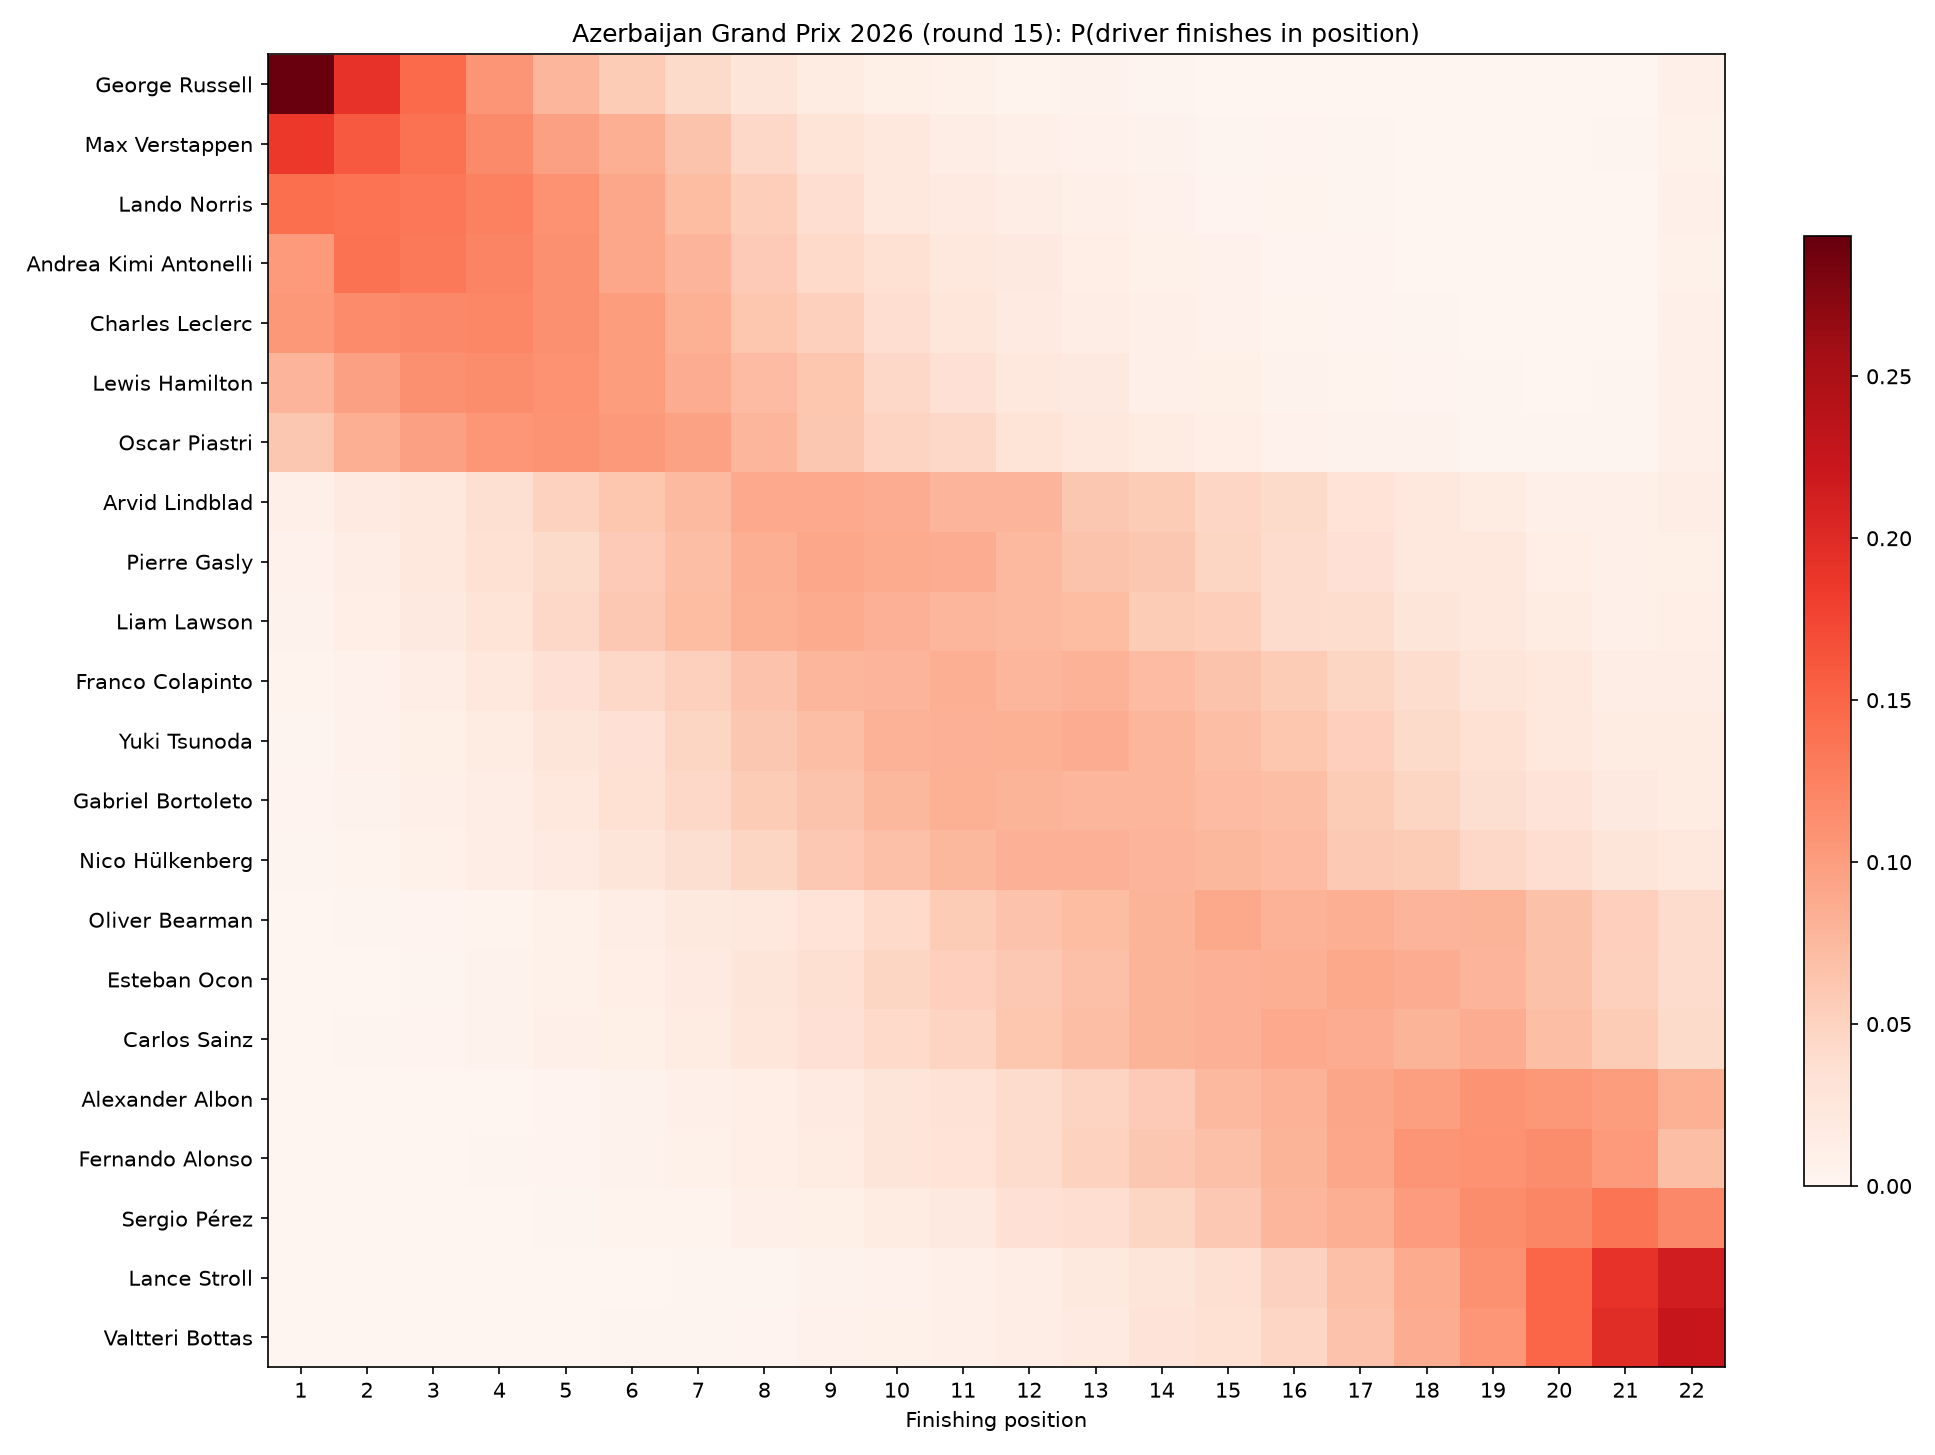
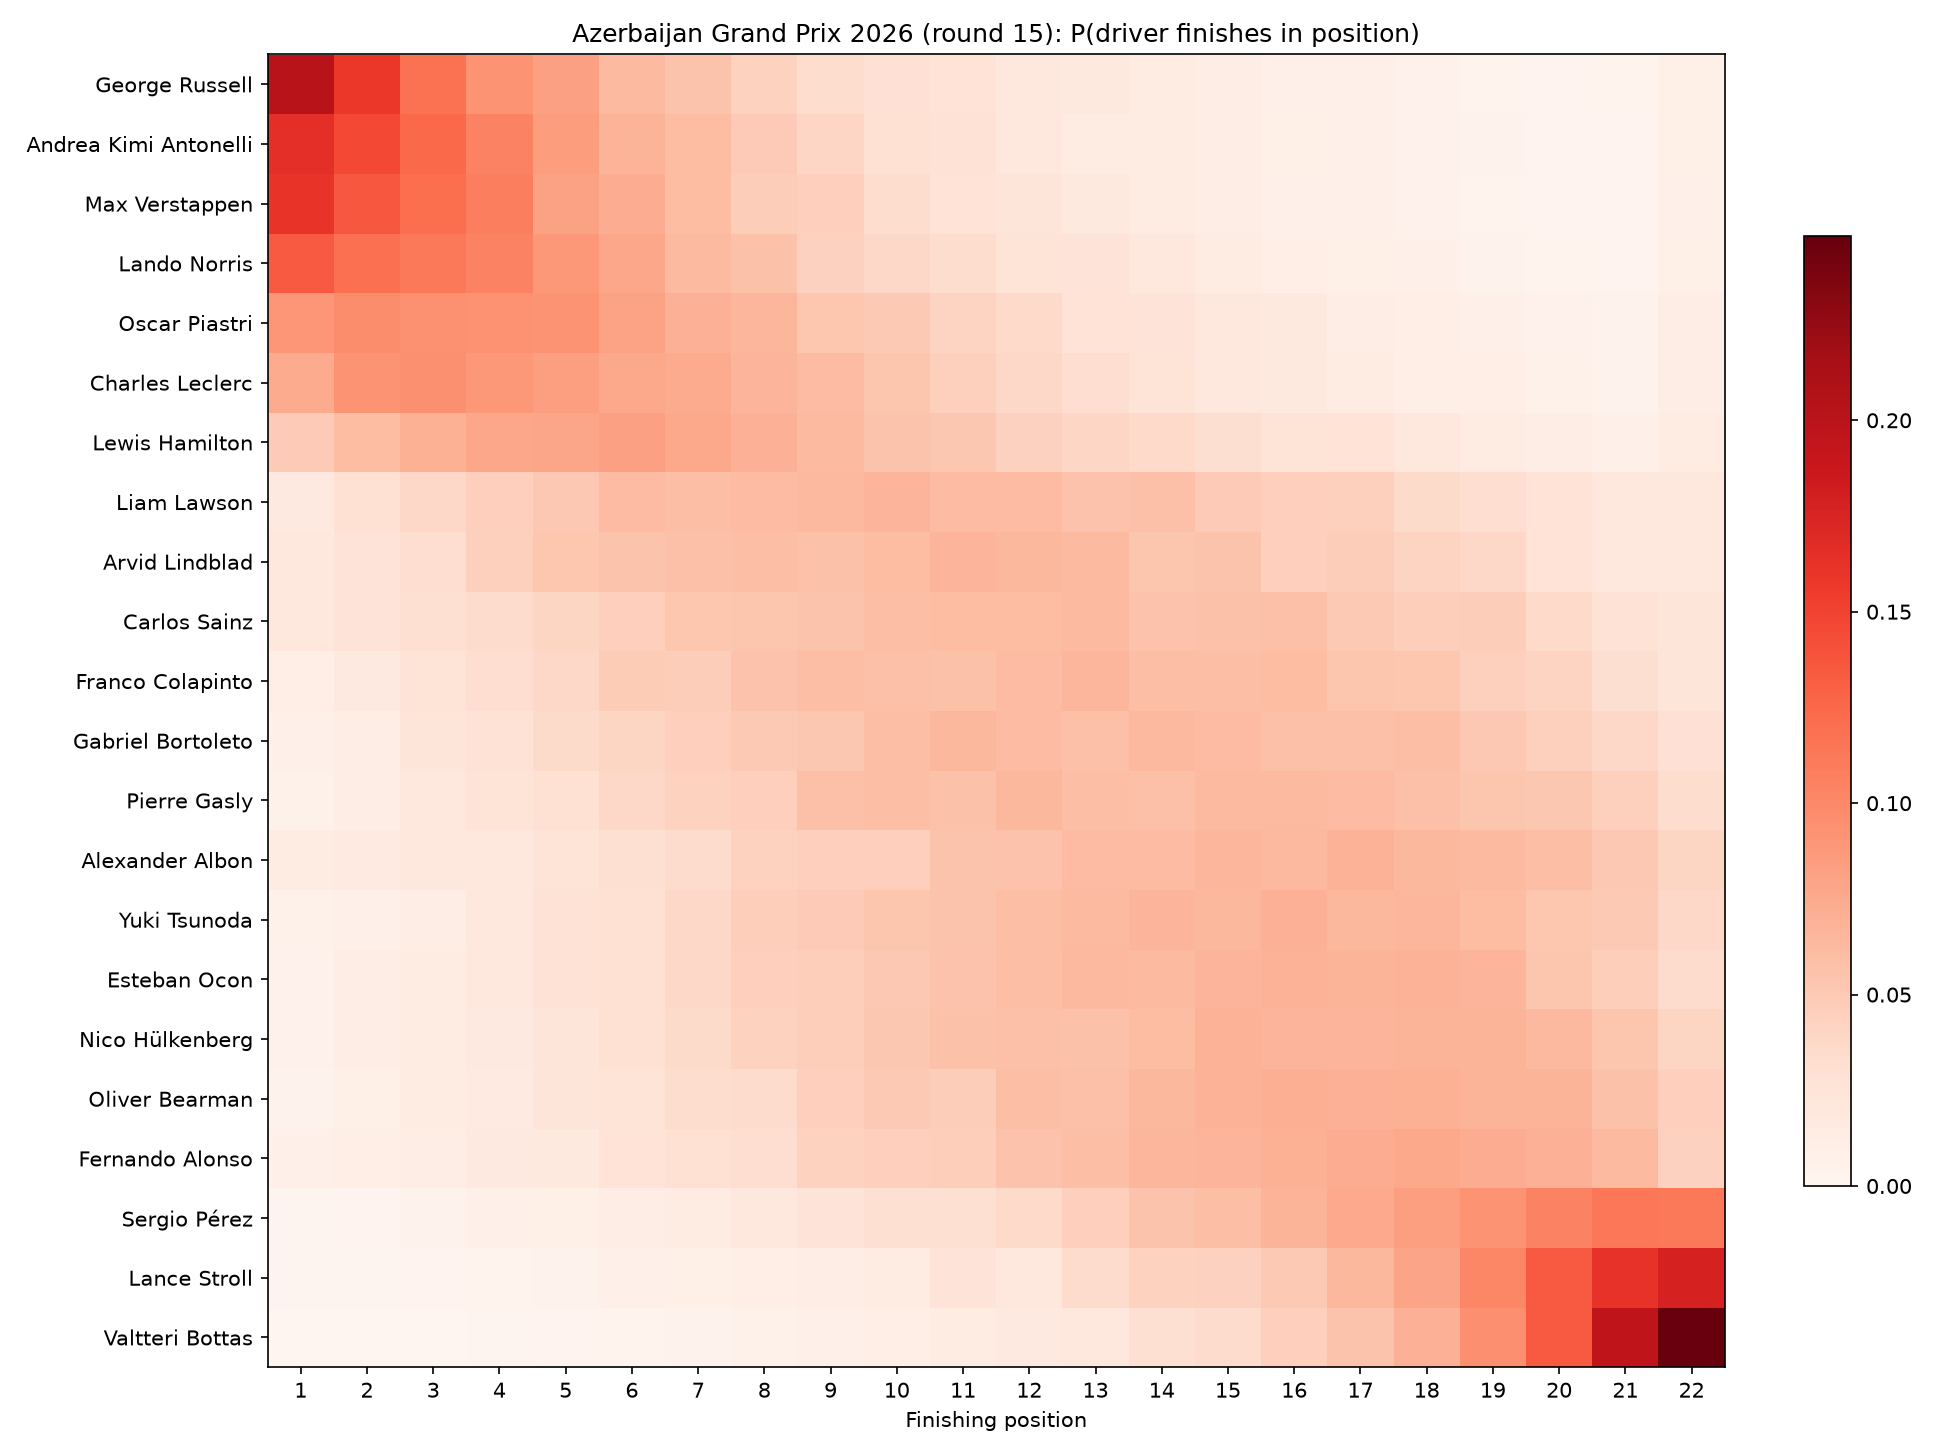
docs: weather and track ablation results
Claude-Session: https://claude.ai/code/session_01YJeHtrUFY8CEqTesftaBuB

diff --git a/README.md b/README.md
@@ -16,32 +16,37 @@ mirror of the Ergast schema.
 
 ```text
 No qualifying data yet; running without grid
+Rain chance: 10% (forecast)
                     Azerbaijan Grand Prix 2026 (round 15)
  #   Driver                    Win   Podium   Points   Exp. pos   P10-P90
- 1   George Russell          29.3%    63.1%    96.9%        3.5       1-7
- 2   Max Verstappen          18.6%    48.6%    94.9%        4.4       1-9
- 3   Lando Norris            14.3%    41.7%    93.0%        4.9       1-9
- 4   Charles Leclerc         10.4%    34.0%    90.8%        5.5      1-10
- 5   Andrea Kimi Antonelli   10.3%    37.5%    91.4%        5.3      1-10
- 6   Lewis Hamilton           7.9%    28.7%    87.8%        6.1      2-11
- 7   Oscar Piastri            6.1%    24.2%    84.3%        6.6      2-12
- 8   Arvid Lindblad           0.8%     5.3%    53.8%       10.4      5-16
- 9   Pierre Gasly             0.6%     4.4%    51.2%       10.7      5-17
-10   Liam Lawson              0.5%     3.7%    49.6%       10.9      5-17
-11   Franco Colapinto         0.4%     2.6%    40.0%       11.8      6-18
-12   Gabriel Bortoleto        0.2%     1.6%    33.1%       12.6      7-19
-13   Yuki Tsunoda             0.2%     1.9%    35.4%       12.3      7-18
-14   Nico Hülkenberg          0.1%     1.2%    28.4%       13.2      7-19
-15   Oliver Bearman           0.1%     0.5%    15.1%       15.0      9-20
-16   Alexander Albon          0.0%     0.1%     7.6%       16.8     11-21
-17   Carlos Sainz             0.0%     0.4%    14.9%       15.2      9-20
-18   Esteban Ocon             0.0%     0.3%    15.7%       15.1      9-20
-19   Sergio Pérez             0.0%     0.1%     4.8%       17.6     12-22
-20   Fernando Alonso          0.0%     0.1%     7.4%       16.8     11-21
-21   Valtteri Bottas          0.0%     0.0%     1.9%       19.1     15-22
-22   Lance Stroll             0.0%     0.0%     1.8%       19.0     15-22
+ 1   George Russell          20.1%    47.7%    87.2%        5.2      1-12
+ 2   Andrea Kimi Antonelli   16.6%    43.6%    87.2%        5.4      1-12
+ 3   Max Verstappen          16.2%    41.8%    86.7%        5.5      1-12
+ 4   Lando Norris            13.4%    36.6%    83.6%        6.0      1-13
+ 5   Oscar Piastri            8.9%    28.0%    78.3%        7.0      2-14
+ 6   Charles Leclerc          7.4%    26.1%    76.5%        7.3      2-14
+ 7   Lewis Hamilton           4.9%    18.1%    68.0%        8.5      2-16
+ 8   Carlos Sainz             2.1%     7.6%    41.6%       11.8      4-19
+ 9   Arvid Lindblad           1.8%     7.6%    46.1%       11.2      4-19
+10   Liam Lawson              1.7%     8.4%    49.1%       10.9      4-18
+11   Alexander Albon          1.3%     4.9%    29.3%       13.5      6-20
+12   Franco Colapinto         1.0%     5.2%    39.2%       12.2      5-19
+13   Gabriel Bortoleto        0.8%     4.4%    35.5%       12.7      5-20
+14   Fernando Alonso          0.7%     2.9%    24.1%       14.3      7-21
+15   Yuki Tsunoda             0.7%     2.7%    29.3%       13.6      6-20
+16   Pierre Gasly             0.6%     3.7%    33.4%       13.1      6-20
+17   Esteban Ocon             0.6%     3.2%    28.8%       13.6      6-20
+18   Nico Hülkenberg          0.5%     3.0%    27.6%       13.8      6-20
+19   Oliver Bearman           0.4%     2.6%    25.5%       14.1      7-21
+20   Sergio Pérez             0.1%     0.9%    12.4%       16.5     10-22
+21   Lance Stroll             0.1%     0.5%     6.8%       17.9     12-22
+22   Valtteri Bottas          0.0%     0.2%     3.9%       18.9     14-22
                   * fewer than 5 rated races: low confidence
 ```
+
+The rain line is the Open-Meteo forecast for the three hours from the race start; it becomes the
+share of simulated runs that are wet. Before the forecast horizon, or when Open-Meteo cannot be
+reached, the circuit's historical wet rate is used instead and the line says so.
 
 ![Win probability](docs/results/example-win.png)
 
@@ -55,14 +60,14 @@ rest of the calendar 2,000 times and counts who ends up on top:
 ```text
            2026 drivers' championship (9 races left, 2,000 runs)
  #   Driver                  Points now   Exp. points    Title    Top 3
- 1   Andrea Kimi Antonelli          292           398    89.8%   100.0%
- 2   George Russell                 211           361    10.1%    99.1%
- 3   Lando Norris                   186           300     0.1%    58.5%
- 4   Lewis Hamilton                 191           283     0.0%    24.1%
- 5   Max Verstappen                 145           268     0.0%    10.2%
- 6   Charles Leclerc                167           268     0.0%     8.2%
- 7   Oscar Piastri                  120           202     0.0%     0.0%
- 8   Liam Lawson                     59            86     0.0%     0.0%
+ 1   Andrea Kimi Antonelli          292           391    97.4%   100.0%
+ 2   George Russell                 211           325     2.5%    94.8%
+ 3   Lando Norris                   186           285     0.1%    54.2%
+ 4   Lewis Hamilton                 191           271     0.0%    25.9%
+ 5   Charles Leclerc                167           256     0.0%    12.2%
+ 6   Max Verstappen                 145           256     0.0%    12.8%
+ 7   Oscar Piastri                  120           194     0.0%     0.0%
+ 8   Liam Lawson                     59            91     0.0%     0.0%
 ```
 
 ![Championship odds](docs/results/example-title.png)
@@ -99,18 +104,30 @@ fastest-lap bonus point (2019 to 2024) is not simulated. Drivers who have left t
 their points, and constructor totals route each driver's simulated points to their current
 team. See [docs/season-sim.md](docs/season-sim.md).
 
+**Weather and track type.** `data update` asks [Open-Meteo](https://open-meteo.com/) how much
+rain fell at each circuit in the three hours from the race start; 0.5 mm or more marks the race
+wet. Every driver and constructor also carries a wet rating and one rating per hand-labelled
+track type (street, high speed, high downforce, mixed), updated only on races of that kind and
+shrunk toward the overall rating until there is enough evidence (eight races count for half).
+For a future race the forecast rain probability becomes a coin flip inside every simulated run:
+wet runs use the wet ratings, wider noise and higher DNF odds. When the forecast is out of
+reach the circuit's historical wet rate stands in. See
+[docs/weather-and-track.md](docs/weather-and-track.md).
+
 ## Backtest results
 
-Parameters were tuned by coordinate descent on 2015 to 2022 (`f1pred tune`), which chose
-`k_driver = 16` and `k_constructor = 24` and left the rest at their defaults. The seasons below
-were never seen by the tuner. Each race is predicted from the ratings, DNF rates and grid that
-were known before it started. See [docs/backtesting.md](docs/backtesting.md).
+Parameters were tuned by coordinate descent on 2015 to 2022 (`f1pred tune`) with the weather
+and track knobs in the grid. It chose `k_driver = 32`, `sigma_team = 40`, `grid_bonus = 12`,
+`regress_constructor = 0.3`, `shrink_wet = shrink_track = 16`, and set both wet factors to 1.0
+(no extra noise or DNF risk in the wet); the rest stayed at their defaults. The seasons below
+were never seen by the tuner. Each race is predicted from the ratings, DNF rates, grid and
+observed weather that were known before it started. See [docs/backtesting.md](docs/backtesting.md).
 
 | Season | Races | Log loss model | Log loss pole | Log loss uniform | Brier model | Brier pole | Brier uniform | Spearman model | Spearman pole |
 |-------:|------:|---------------:|--------------:|-----------------:|------------:|-----------:|--------------:|---------------:|--------------:|
-| 2023 | 22 | 0.59 | 1.98 | 3.00 | 0.08 | 0.09 | 0.13 | 0.77 | 0.71 |
-| 2024 | 24 | 1.76 | 2.89 | 2.99 | 0.08 | 0.09 | 0.13 | 0.79 | 0.78 |
-| 2025 | 24 | 1.35 | 1.61 | 2.99 | 0.07 | 0.06 | 0.13 | 0.62 | 0.65 |
+| 2023 | 22 | 0.59 | 1.98 | 3.00 | 0.08 | 0.09 | 0.13 | 0.79 | 0.71 |
+| 2024 | 24 | 1.74 | 2.89 | 2.99 | 0.08 | 0.09 | 0.13 | 0.80 | 0.78 |
+| 2025 | 24 | 1.33 | 1.61 | 2.99 | 0.07 | 0.06 | 0.13 | 0.64 | 0.65 |
 
 Log loss is the surprise at the actual winner (lower is better), Brier the squared error of the
 podium probabilities (lower is better), Spearman the rank correlation of expected versus actual
@@ -119,9 +136,30 @@ chance and spreads the rest evenly; "uniform" gives every driver the same chance
 
 The model beats both baselines on winner log loss in every season and beats uniform on every
 score. It is weakest where the grid already says most of what there is to say: in 2025 the
-pole baseline edges it on podium Brier and Spearman, and tuning moved the held-out numbers only
-marginally from the defaults (2024 improved, 2023 and 2025 got slightly worse). Weather, track
-type and driver form are not yet modelled.
+pole baseline edges it on podium Brier and Spearman. Driver form is not yet modelled.
+
+### Did weather and track type help?
+
+`f1pred backtest --seasons 2023-2025 --ablate` scores the same seasons with each addition
+switched off and on, using the tuned parameters throughout (`base` is the Phase 3 model with
+those parameters, so its numbers differ from the earlier Phase 3 README table, which used the
+older tuning). Log loss is the winner score, Brier the podium score; lower is better for both.
+
+| Variant | Log loss 2023 | 2024 | 2025 | All 70 | Brier 2023 | 2024 | 2025 | All 70 |
+|:--------|--------------:|-----:|-----:|-------:|-----------:|-----:|-----:|-------:|
+| base (neither) | 0.434 | 1.935 | 1.217 | 1.217 | 0.0806 | 0.0822 | 0.0682 | 0.0769 |
+| weather | 0.442 | 1.905 | 1.240 | 1.217 | 0.0805 | 0.0805 | 0.0691 | 0.0766 |
+| track | 0.568 | 1.679 | 1.280 | 1.193 | 0.0793 | 0.0802 | 0.0661 | 0.0751 |
+| full (both, the default) | 0.594 | 1.736 | 1.327 | 1.237 | 0.0795 | 0.0812 | 0.0683 | 0.0763 |
+
+Track type is the only addition that improves the 70-race averages, and it does so unevenly:
+it cuts 2024's winner log loss from 1.93 to 1.68 but makes 2023 and 2025 worse. Weather is a
+wash: the tuner pushed its knobs to the values that switch the wet noise and DNF scaling off,
+and with only 52 wet races since 2010 the wet ratings move the average log loss by less than
+0.001, so with both additions on the winner score is 0.02 worse than `base` while the podium
+Brier and Spearman are marginally better. Phase 4 has not moved the headline numbers; both
+features stay on by default because the podium and ordering scores favour them, but the
+honest summary is that the grid and the overall ratings already carry most of the signal.
 
 ![Calibration](docs/results/backtest-calibration.png)
 
@@ -134,24 +172,29 @@ uv run f1pred ratings build                        # replay 2010 onward, write p
 uv run f1pred predict --season 2026 --round 15     # or --race monza; saves outputs/2026-15-win.png and -positions.png
 uv run f1pred season --season 2026                 # title odds for the rest of the season; saves outputs/2026-title.png and CSVs
 uv run f1pred backtest --seasons 2023-2025         # score vs baselines; saves outputs/calibration.png and CSVs
+uv run f1pred backtest --ablate                    # also score with and without weather and track type; saves outputs/ablation.csv
 uv run f1pred tune                                 # coordinate descent on 2015-2022, held-out report, writes f1pred/tuned.json
 ```
 
-Simulation commands take `--runs N`, `--seed N` and `--no-grid`; every command takes
-`--cache-dir DIR` and the ones that write charts take `--out DIR`.
+Simulation commands take `--runs N`, `--seed N` and `--no-grid`; `predict` takes
+`--rain 0.3` to override the rain probability; every command takes `--cache-dir DIR` and the
+ones that write charts take `--out DIR`. `data update` fetches race-day rain from Open-Meteo
+(no key needed) and caches it in `data/cache/weather.parquet`, so later updates only ask about
+new races.
 
 ## Roadmap
 
-Done: Phase 3, season simulation with drivers' and constructors' championship odds
-(`f1pred season`).
+Done: Phase 4, wet/dry weather via Open-Meteo and track-type conditional ratings, judged by
+the ablation backtest (`f1pred backtest --ablate`).
 
-- Phase 4: wet/dry weather via Open-Meteo and track-type conditional ratings, judged by the backtest.
 - Phase 5: driver profile (aggression, risk, form) from lap-1 positions, DNF kinds and recent over-performance.
 
 ## Credits
 
 Data: [tracinginsights/RaceData](https://huggingface.co/datasets/tracinginsights/RaceData),
 derived from the Ergast and [Jolpica](https://github.com/jolpica/jolpica-f1) F1 databases.
+Weather: [Open-Meteo](https://open-meteo.com/) historical archive and forecast APIs
+(CC BY 4.0).
 
 Prior art consulted: mar-antaya's `2025_f1_predictions` and `2026_f1_predictions`
 (per-race gradient boosting on qualifying times); villekuosmanen's `F1Predict` (driver,
